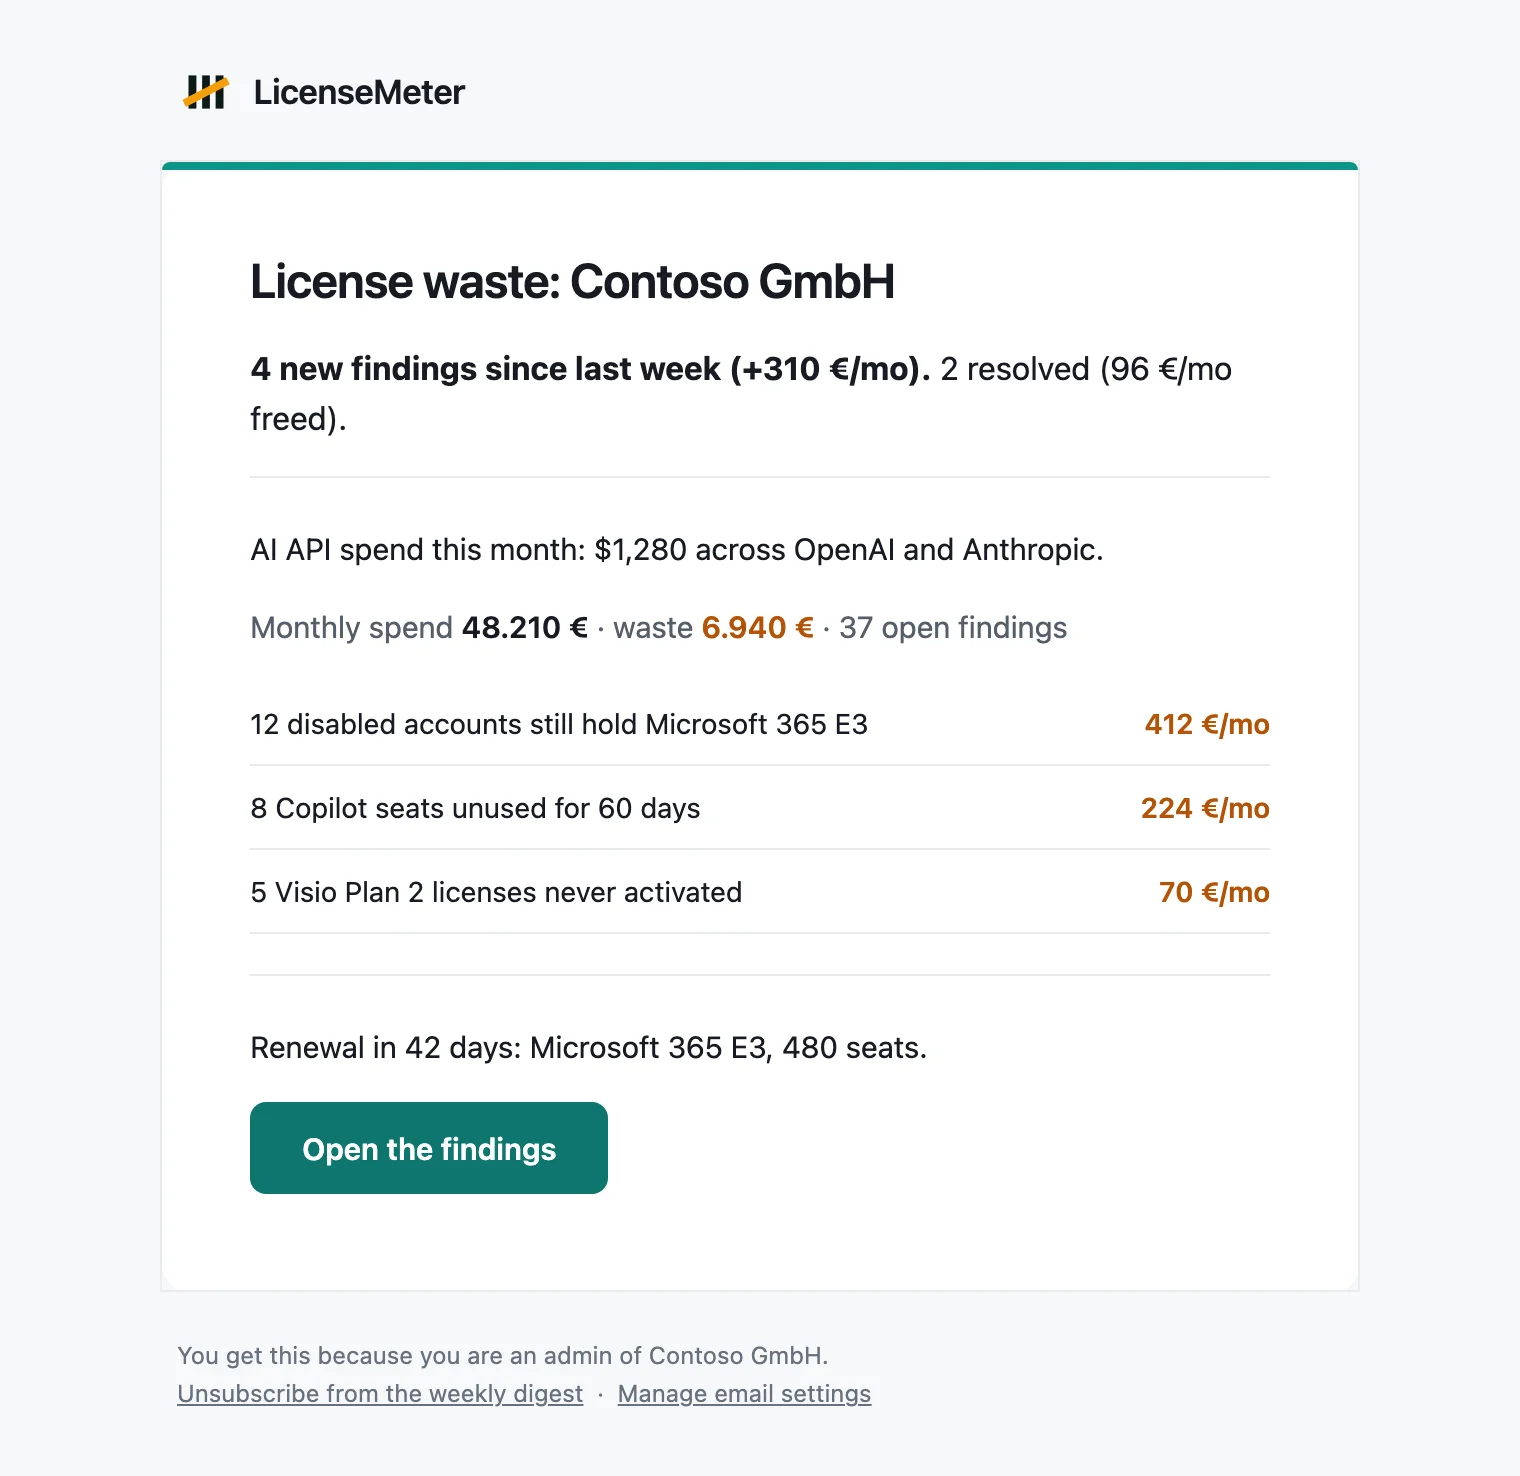
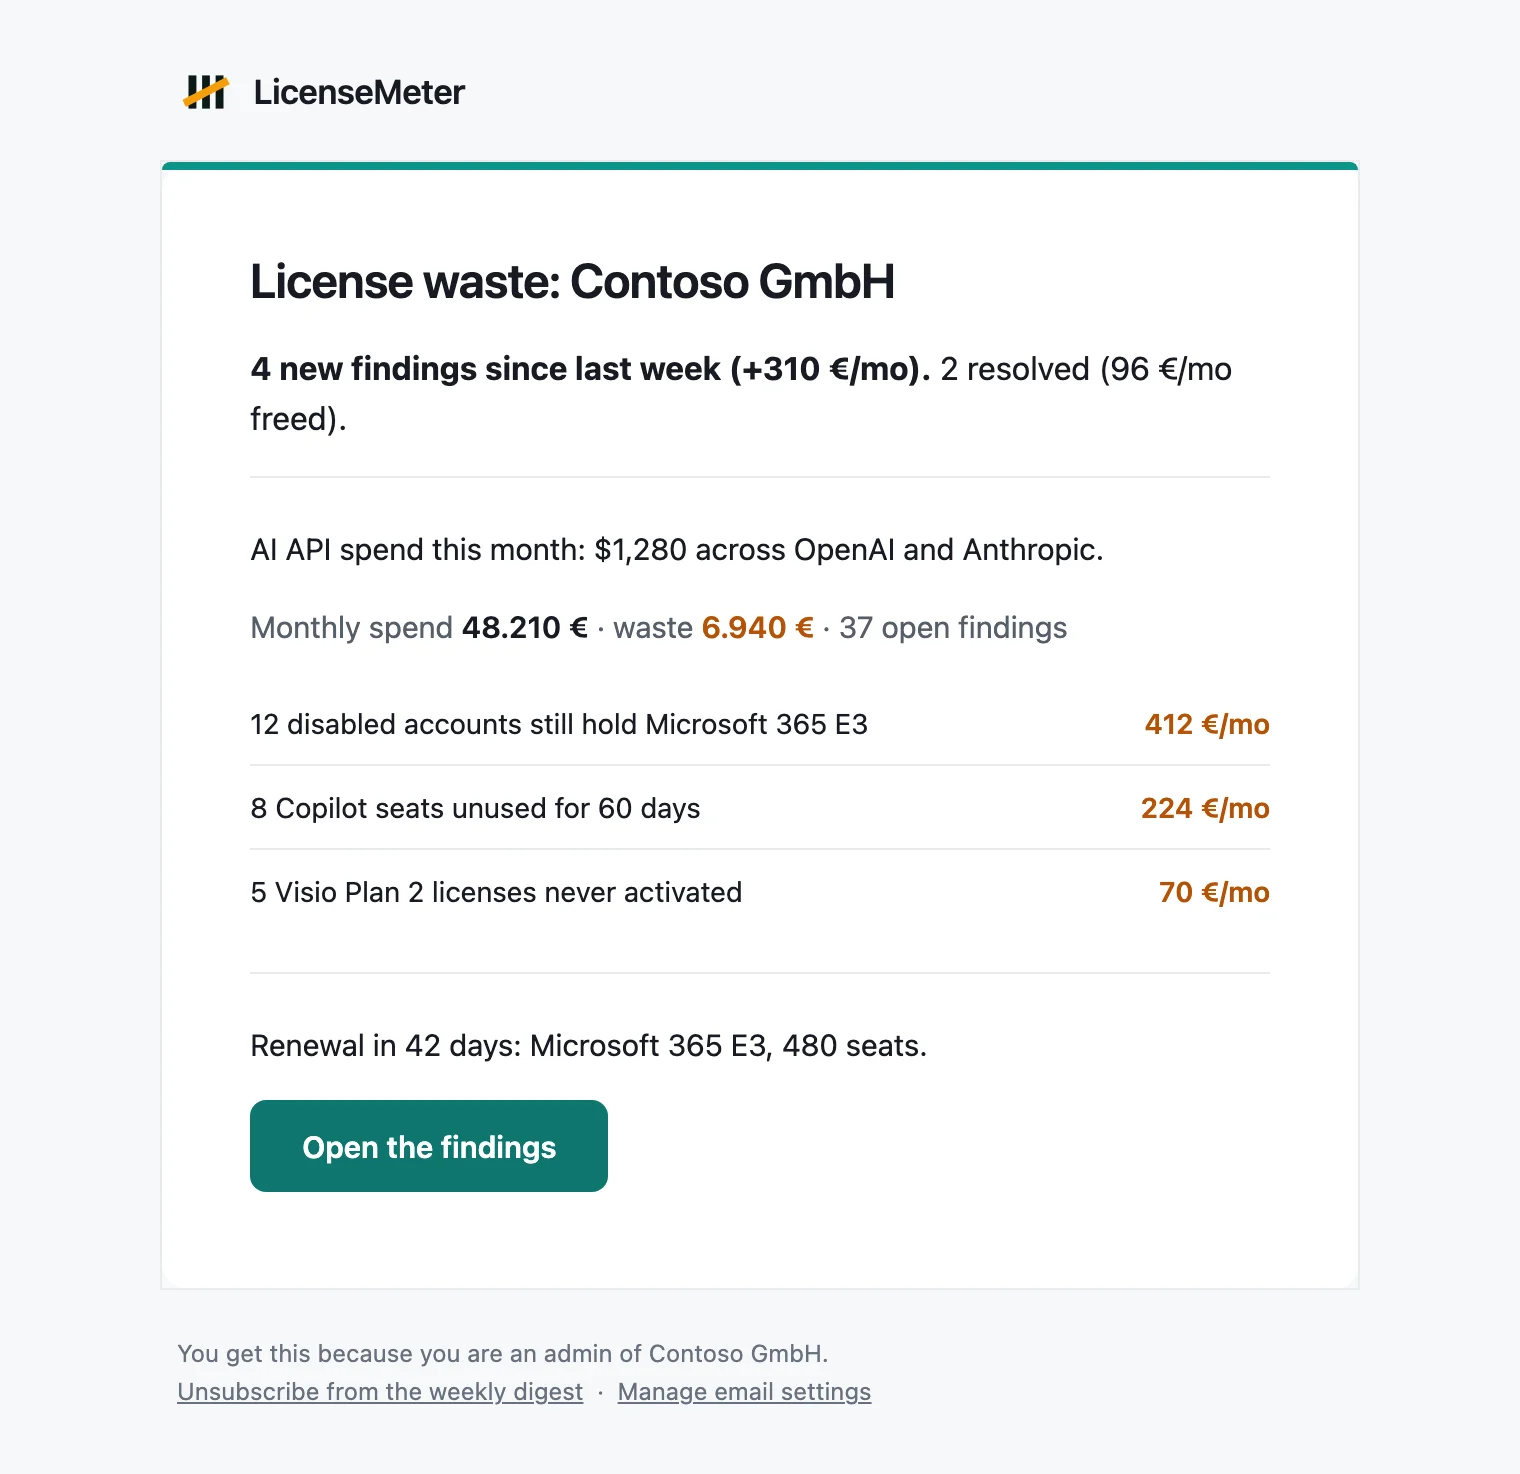
Keep email addresses in the type of the mail around them
Mail clients linkify a bare address themselves and paint it blue and
underlined, so a findings table came out half blue while the display
name in the row beside it stayed plain. Every address LicenseMeter
renders now carries an anchor of our own in the surrounding colour,
which keeps the client's linkifier out, and the shell asks clients not
to detect addresses and neutralises Apple's own detector styling.

The last row of a figures table no longer draws a rule. It sat directly
above the rule of whatever followed, and the two with the row gap
between them read as an empty row.

Documentation images regenerated from the fixed templates.

diff --git a/src/lib/emailLayout.ts b/src/lib/emailLayout.ts
@@ -55,6 +55,23 @@ export const emailAppLink = (
   query = "",
 ): string => escapeHtml(emailAppUrl(baseUrl, path, query));
 
+/**
+ * A bare email address in body text gets linkified by the mail client itself,
+ * which paints it blue and underlined while the display name beside it stays
+ * plain, so a findings table ends up half blue. Giving the address an anchor
+ * of our own keeps the client's linkifier out and the row in one type. Takes
+ * plain text, returns HTML.
+ */
+const ADDRESS =
+  /[A-Za-z0-9._%+-]+@[A-Za-z0-9-]+(?:\.[A-Za-z0-9-]+)*\.[A-Za-z]{2,}/g;
+
+export const emailAddressText = (text: string): string =>
+  escapeHtml(text).replace(
+    ADDRESS,
+    (address) =>
+      `<a href="mailto:${address}" style="color:inherit;text-decoration:none">${address}</a>`,
+  );
+
 /** Small uppercase label above a heading. Plain text. */
 export const emailEyebrow = (text: string, color: string = C.brandText) =>
   `<p style="margin:0 0 14px 0;${EMAIL_MONO};font-size:11px;letter-spacing:1.4px;text-transform:uppercase;color:${color}">${escapeHtml(text)}</p>`;
@@ -83,9 +100,9 @@ export const emailText = (
   return `<p style="margin:0 0 16px 0;${type};color:${color}">${html}</p>`;
 };
 
-/** Emphasis inside running text. Plain text. */
+/** Emphasis inside running text. Plain text; addresses keep this type. */
 export const emailStrong = (text: string): string =>
-  `<strong style="color:${C.ink};font-weight:600">${escapeHtml(text)}</strong>`;
+  `<strong style="color:${C.ink};font-weight:600">${emailAddressText(text)}</strong>`;
 
 /** A money figure that is being wasted. Plain text. */
 export const emailWaste = (text: string): string =>
@@ -130,12 +147,16 @@ export const emailRows = (rows: { label: string; value: string }[]): string =>
     ? ""
     : `<table role="presentation" width="100%" cellpadding="0" cellspacing="0" style="margin:0 0 20px 0">
 ${rows
-  .map(
-    (r) => `<tr>
-<td style="${EMAIL_SANS};padding:10px 12px 10px 0;border-bottom:1px solid ${C.line};font-size:14px;line-height:21px;color:${C.ink}">${escapeHtml(r.label)}</td>
-<td style="${EMAIL_SANS};padding:10px 0;border-bottom:1px solid ${C.line};font-size:14px;line-height:21px;text-align:right;white-space:nowrap;font-weight:600;color:${C.wasteText}">${escapeHtml(r.value)}</td>
-</tr>`,
-  )
+  .map((r, i) => {
+    // The last row carries no rule: whatever follows brings its own, and two
+    // of them with the row gap between read as an empty row.
+    const edge =
+      i === rows.length - 1 ? "" : `border-bottom:1px solid ${C.line};`;
+    return `<tr>
+<td style="${EMAIL_SANS};padding:10px 12px 10px 0;${edge}font-size:14px;line-height:21px;color:${C.ink}">${emailAddressText(r.label)}</td>
+<td style="${EMAIL_SANS};padding:10px 0;${edge}font-size:14px;line-height:21px;text-align:right;white-space:nowrap;font-weight:600;color:${C.wasteText}">${escapeHtml(r.value)}</td>
+</tr>`;
+  })
   .join("\n")}
 </table>`;
 
@@ -171,6 +192,7 @@ export const emailShell = (args: {
 <meta charset="utf-8">
 <meta name="viewport" content="width=device-width, initial-scale=1">
 <meta name="x-apple-disable-message-reformatting">
+<meta name="format-detection" content="telephone=no,date=no,address=no,email=no">
 <meta name="color-scheme" content="light">
 <meta name="supported-color-schemes" content="light">
 <title>${escapeHtml(args.title)}</title>
@@ -181,6 +203,8 @@ export const emailShell = (args: {
 body { margin: 0; padding: 0; width: 100%; background: ${C.canvas}; -webkit-text-size-adjust: 100%; }
 table { border-collapse: collapse; }
 img { border: 0; display: block; }
+/* Apple Mail linkifies addresses and dates and restyles them; keep our type. */
+a[x-apple-data-detectors] { color: inherit !important; text-decoration: none !important; font-size: inherit !important; font-family: inherit !important; font-weight: inherit !important; line-height: inherit !important; }
 @media only screen and (max-width: 620px) {
   .shell { width: 100% !important; }
   .pad { padding-left: 24px !important; padding-right: 24px !important; }

diff --git a/src/lib/emailLayout.test.ts b/src/lib/emailLayout.test.ts
@@ -1,6 +1,7 @@
 import { describe, expect, it } from "vitest";
 
 import {
+  emailAddressText,
   emailAppLink,
   emailAppUrl,
   emailButton,
@@ -86,5 +87,59 @@ describe("emailShell", () => {
       footer: "",
     });
     expect(bare).not.toContain("mso-hide:all");
+  });
+});
+
+describe("emailAddressText", () => {
+  it("gives an address an anchor of our own, in the surrounding type", () => {
+    const html = emailAddressText("Disabled account: jan.meier@contoso.com");
+    expect(html).toContain('href="mailto:jan.meier@contoso.com"');
+    expect(html).toContain("color:inherit");
+    expect(html).toContain("text-decoration:none");
+    expect(html).toContain("Disabled account: ");
+  });
+
+  it("leaves text without an address alone", () => {
+    expect(emailAddressText("Copilot seat unused: Anna Schmidt")).toBe(
+      "Copilot seat unused: Anna Schmidt",
+    );
+  });
+
+  it("wraps every address in the text", () => {
+    const html = emailAddressText("a@x.com and b@y.co.uk");
+    expect(html.match(/href="mailto:/g)).toHaveLength(2);
+    expect(html).toContain('href="mailto:b@y.co.uk"');
+  });
+
+  it("escapes the text before linking, so markup cannot get in", () => {
+    const html = emailAddressText('<img src=x> evil"@contoso.com');
+    expect(html).not.toContain("<img");
+    expect(html).toContain("&lt;img");
+  });
+});
+
+describe("emailRows", () => {
+  it("leaves the last row without a rule, so a following rule is not doubled", () => {
+    const rows = emailRows([
+      { label: "First", value: "1" },
+      { label: "Last", value: "2" },
+    ]);
+    expect(rows.match(/border-bottom/g)).toHaveLength(2);
+    expect(rows.slice(rows.indexOf("Last"))).not.toContain("border-bottom");
+  });
+
+  it("links an address in a row label", () => {
+    expect(emailRows([{ label: "Seat: a@b.com", value: "1" }])).toContain(
+      'href="mailto:a@b.com"',
+    );
+  });
+});
+
+describe("client hints", () => {
+  const html = emailShell({ baseUrl: BASE, title: "t", body: "", footer: "" });
+
+  it("asks clients not to detect addresses, and neutralises Apple's", () => {
+    expect(html).toContain('name="format-detection"');
+    expect(html).toContain("a[x-apple-data-detectors]");
   });
 });

diff --git a/src/server/email.ts b/src/server/email.ts
@@ -1,5 +1,6 @@
 import { env } from "~/env";
 import {
+  emailAddressText,
   emailAppLink,
   emailButton,
   emailFooterLink,
@@ -137,7 +138,7 @@ export const joinRequestHtml = (args: {
   noticeShell({
     appUrl: args.appUrl,
     title: "A colleague asked to join your workspace",
-    heading: `${escapeHtml(args.requesterEmail)} asked to join ${escapeHtml(args.tenantName)}`,
+    heading: `${emailAddressText(args.requesterEmail)} asked to join ${escapeHtml(args.tenantName)}`,
     body: `${emailStrong(args.requesterEmail)} signed in with a verified company
     email and asked for access to the workspace ${emailStrong(args.tenantName)}.
     Nothing is shared until an owner or admin approves the request. Approved
@@ -159,7 +160,7 @@ export const domainJoinedHtml = (args: {
   noticeShell({
     appUrl: args.appUrl,
     title: "A colleague joined your workspace",
-    heading: `${escapeHtml(args.memberEmail)} joined ${escapeHtml(args.tenantName)}`,
+    heading: `${emailAddressText(args.memberEmail)} joined ${escapeHtml(args.tenantName)}`,
     body: `${emailStrong(args.memberEmail)} signed in with a verified company email
     and joined the workspace ${emailStrong(args.tenantName)} as viewer: read-only
     dashboards, findings and exports. You can change the role or remove the

diff --git a/src/server/welcomeEmail.ts b/src/server/welcomeEmail.ts
@@ -1,6 +1,7 @@
 import { DEMO_FIGURES, demoEuros } from "~/lib/demoFigures";
 import {
   EMAIL_COLORS,
+  emailAddressText,
   EMAIL_MONO,
   EMAIL_SANS,
   emailAppLink,
@@ -169,7 +170,7 @@ ${inlineLink(dpaUrl, "licensemeter.com/dpa")}.
 ${emailText("I read every reply. Questions about scopes, features or your setup land directly with me.", { tone: "ink" })}
 <p style="margin:0;font-size:15px;line-height:22px;font-weight:600;color:${C.ink}">Ugur Koc</p>
 <p style="margin:0 0 16px 0;font-size:13px;line-height:20px;color:${C.faint}">Microsoft MVP for Intune and Security Copilot</p>`,
-    footer: `You get this one email because ${escapeHtml(args.email)} was entered on
+    footer: `You get this one email because ${emailAddressText(args.email)} was entered on
 licensemeter.com. Scans, findings, reports and exports are free, with no time
 limit. You can ${emailFooterLink(escapeHtml(args.unsubscribeUrl), "unsubscribe")}
 any time.<br>LicenseMeter, EU-hosted in Frankfurt.`,

diff --git a/src/server/onboardingEmail.ts b/src/server/onboardingEmail.ts
@@ -1,5 +1,6 @@
 import {
   EMAIL_COLORS,
+  emailAddressText,
   EMAIL_MONO,
   EMAIL_SANS,
   emailAppLink,
@@ -195,7 +196,7 @@ ${emailRule()}
 ${emailText("Stuck or missing something? Reply to this email. I read every reply.", { tone: "ink" })}
 <p style="margin:0;font-size:15px;line-height:22px;font-weight:600;color:${C.ink}">Ugur Koc</p>
 <p style="margin:0 0 16px 0;font-size:13px;line-height:20px;color:${C.faint}">Founder, LicenseMeter</p>`,
-    footer: `You receive this one-time email because ${escapeHtml(args.email)} signed in to LicenseMeter for the first time.<br>
+    footer: `You receive this one-time email because ${emailAddressText(args.email)} signed in to LicenseMeter for the first time.<br>
 ${emailFooterLink(DOCS, "Documentation")}
 &nbsp;&middot;&nbsp;
 ${emailFooterLink("https://changelog.ugurlabs.com/?product=licensemeter", "Product updates")}
